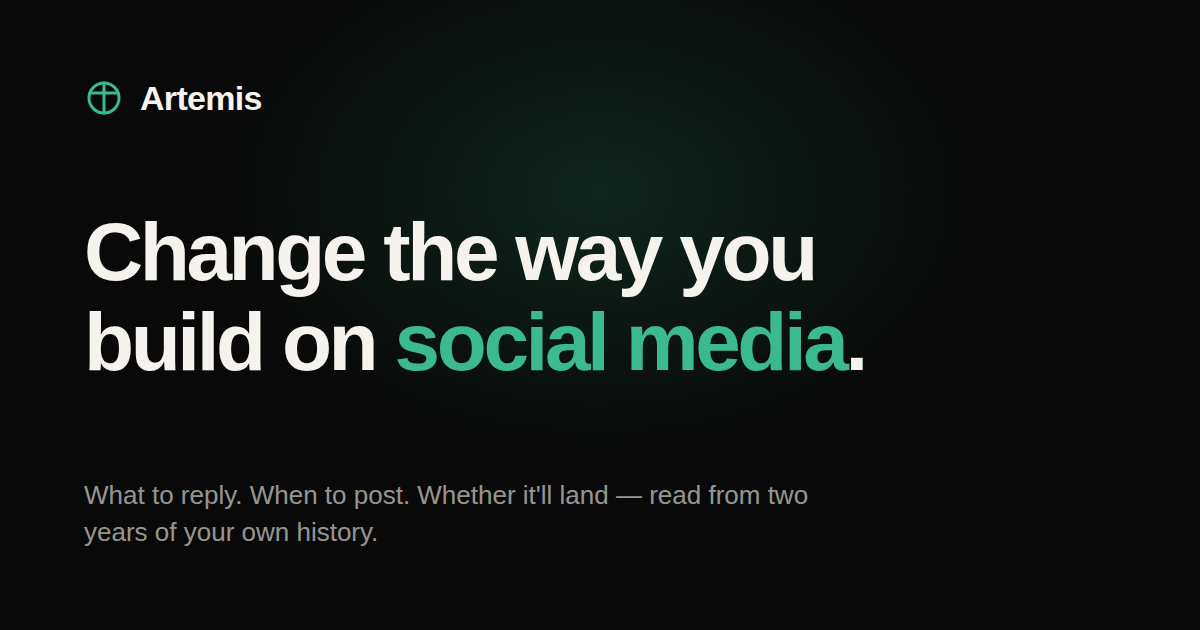
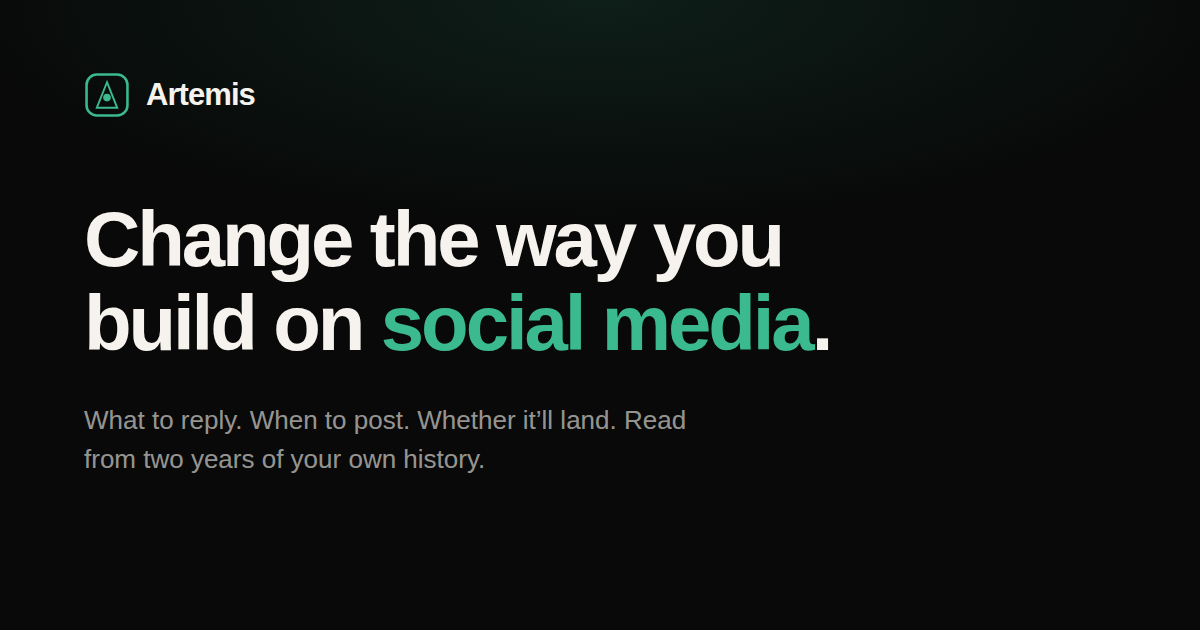
Replace the placeholder glyph with the real Artemis mark
The site shipped a circle struck by two lines. The actual mark is a rounded
square holding a triangle with a weight at its centre, and the two have
nothing in common. It was wrong in eleven places: the nav, the footer, seven
product-chrome sites, the favicon set and the social card.

Geometry is the supplied SVG verbatim, kept on its own 36x36 grid rather
than rescaled onto the icon set's 24, so it can be diffed against the source
in brand/ without arithmetic in the way.

Drawn in currentColor, not the brand gradient. The supplied set includes flat
black and flat white variants, so a single-colour mark is the intended form
rather than a compromise, and one colour is what lets the same component
serve both themes and sit on a mint fill without a second asset. It takes
the site's --mint rather than the brand's #00C4A0, per the earlier call that
the site palette wins: the two greens side by side read as a mistake.

ArtemisMark and ArtemisGlyph had been byte-identical copies of the
placeholder, and ArtemisTriangle was a third near-duplicate that, alone of
the three, already had roughly the right shape. That duplication is how a
placeholder survived this long, so the three collapse into two with a real
distinction: ArtemisMark carries the frame, ArtemisGlyph drops it. Rendering
both across 12 to 32px shows why. The frame's 2px stroke closes into a blob
below about 16px, and the small sites are avatars and badges that already sit
[…]

Changed region(s): [[0.0617, 0.3016, 0.74, 0.6032], [0.0617, 0.6333, 0.6783, 0.8746], [0.0617, 0.1206, 0.2158, 0.181]]

diff --git a/src/components/Icons.tsx b/src/components/Icons.tsx
@@ -29,33 +29,21 @@ function Icon({ size = 24, strokeWidth = 2, ...rest }: IconProps & { strokeWidth
   )
 }
 
-/** The Artemis roundel: the wordmark's glyph, and the whole brand identity for now. */
+/**
+ * The Artemis mark: a rounded square holding a struck triangle with a weight at its centre.
+ *
+ * Geometry is the brand SVG verbatim, on its own 36x36 grid rather than the icon set's 24, so
+ * the numbers can be checked against the source file without rescaling arithmetic in the way.
+ *
+ * Drawn in currentColor rather than the brand gradient. The brand set ships flat black and
+ * flat white variants alongside the gradient one, so a single-colour mark is the designer's
+ * intent, not a compromise; and one colour is what lets the same glyph serve both themes and
+ * sit on a mint fill without a second asset.
+ */
 export function ArtemisMark({ size = 18, ...rest }: IconProps) {
   return (
-    <Icon size={size} strokeWidth={1.8} {...rest}>
-      <circle cx="12" cy="12" r="9" />
-      <path d="M12 3v18" />
-      <path d="M3.6 9h16.8" />
-    </Icon>
-  )
-}
-
-/** The Art E avatar glyph — a struck triangle with a weight at its centre of mass. */
-export function ArtemisGlyph({ size = 16, ...rest }: IconProps) {
-  return (
-    <Icon size={size} strokeWidth={2.2} {...rest}>
-      <circle cx="12" cy="12" r="9" />
-      <path d="M12 3v18" />
-      <path d="M3.6 9h16.8" />
-    </Icon>
-  )
-}
-
-/** The mark used inside product chrome (notification icon, connect hub): triangle + dot. */
-export function ArtemisTriangle({ size = 14, ...rest }: IconProps) {
-  return (
     <svg
-      viewBox="0 0 24 24"
+      viewBox="0 0 36 36"
       width={size}
       height={size}
       fill="none"
@@ -63,13 +51,35 @@ export function ArtemisTriangle({ size = 14, ...rest }: IconProps) {
       focusable="false"
       {...rest}
     >
-      <path
-        d="M12 5.3L17.4 18.7H6.6Z"
-        stroke="currentColor"
-        strokeWidth="1.8"
-        strokeLinejoin="round"
-      />
-      <circle cx="12" cy="13.4" r="2" fill="currentColor" />
+      <rect x="2" y="2" width="32" height="32" rx="8" stroke="currentColor" strokeWidth="2" />
+      <path d="M18 8L26 28H10L18 8Z" stroke="currentColor" strokeWidth="1.5" />
+      <circle cx="18" cy="20" r="3" fill="currentColor" />
+    </svg>
+  )
+}
+
+/**
+ * The mark without its frame, for the small sizes: chat avatars, notification badges, the
+ * connect hub. Those already sit inside a circle or a tinted chip, so the frame would read as
+ * a second border, and below about 16px its 2px stroke closes up into a solid blob.
+ *
+ * Same triangle and dot as ArtemisMark, on a viewBox cropped to their painted bounds so the
+ * glyph fills the space it is given. The top of that box allows for the apex's miter, which
+ * overshoots the 8 in the path data by just over 2 units.
+ */
+export function ArtemisGlyph({ size = 16, ...rest }: IconProps) {
+  return (
+    <svg
+      viewBox="6.2 5.6 23.6 23.6"
+      width={size}
+      height={size}
+      fill="none"
+      aria-hidden="true"
+      focusable="false"
+      {...rest}
+    >
+      <path d="M18 8L26 28H10L18 8Z" stroke="currentColor" strokeWidth="1.5" />
+      <circle cx="18" cy="20" r="3" fill="currentColor" />
     </svg>
   )
 }

diff --git a/src/sections/Belief/Belief.tsx b/src/sections/Belief/Belief.tsx
@@ -1,5 +1,5 @@
 import { useCallback, useEffect, useLayoutEffect, useRef, useState } from 'react'
-import { ArrowLeftIcon, ArrowRightIcon, ArtemisTriangle } from '../../components/Icons'
+import { ArrowLeftIcon, ArrowRightIcon, ArtemisGlyph } from '../../components/Icons'
 import { useCarousel } from '../../lib/useCarousel'
 import { useInView } from '../../lib/useInView'
 import { useMediaQuery } from '../../lib/useMediaQuery'
@@ -163,7 +163,7 @@ function NotificationCard() {
     <div className={`${s.glass} ${s.note}`} data-decorative="product-mock">
       <div className={s.noteHead}>
         <span className={s.noteIcon}>
-          <ArtemisTriangle size={12} />
+          <ArtemisGlyph size={12} />
         </span>
         <span className={s.noteApp}>Artemis</span>
         <span className={s.noteTime}>now</span>

diff --git a/brand/README.md b/brand/README.md
@@ -1,0 +1,44 @@
+# Brand source files
+
+The mark as supplied, unmodified. Kept here so the geometry in `src/components/Icons.tsx` and
+everything `scripts/make-icons.mjs` generates can be checked against the original rather than
+against a previous copy of itself.
+
+All four mark files are identical geometry on a 36x36 grid and differ only in colour:
+
+| File | Colour |
+|---|---|
+| `artemisai-mark-gradient.svg` | `#00D4AA` to `#00A88A`, diagonal |
+| `artemisai-mark-teal.svg` | flat `#00C4A0` |
+| `artemisai-mark-black.svg` | flat `#0E1116` |
+| `artemisai-mark-white.svg` | flat `#FFFFFF` |
+
+That a flat black and a flat white variant exist is why the site draws the mark in
+`currentColor`: a single-colour mark is the intended form, so one component can serve both
+themes and sit on a mint fill without a second asset. The site uses its own `--mint` rather
+than the brand teal, which was a deliberate call: `#00C4A0` against the site's `#3BB98F`
+reads as two greens rather than one.
+
+`artemisai-wordmark.svg` is the lockup. **It is not used by the site**, for two reasons: it
+sets "ArtemisAI" where the site says "Artemis", and it pulls Sora from Google Fonts through an
+`@import` inside the SVG, which does not render reliably and would add an external request.
+The nav and footer set the word in live text instead, which stays sharp at any size, can be
+selected, and is read properly by a screen reader.
+
+These arrived renamed to `.txt`, because SVG uploads are commonly rejected as an attachment
+type: an SVG is XML and can carry script. They are stored here with their proper extension.
+
+## Regenerating the icons
+
+```bash
+npm run build && (cd dist && python3 -m http.server 4185 &)   # make-og needs the fonts served
+node scripts/make-icons.mjs    # favicon-96, apple-touch, 192, 512, maskable-512
+node scripts/make-og.mjs       # og.png, the social share card
+```
+
+`favicon.svg` is hand-written rather than generated, because it carries its own dark ground:
+a browser tab strip may be light or dark, and an unbacked mark disappears against one of them.
+
+The maskable icon is drawn at a smaller scale on a full-bleed ground. Launchers crop maskable
+icons to a circle, so the art has to stay inside the middle 80% of the canvas; rescaling one
+of the other icons would not do.
